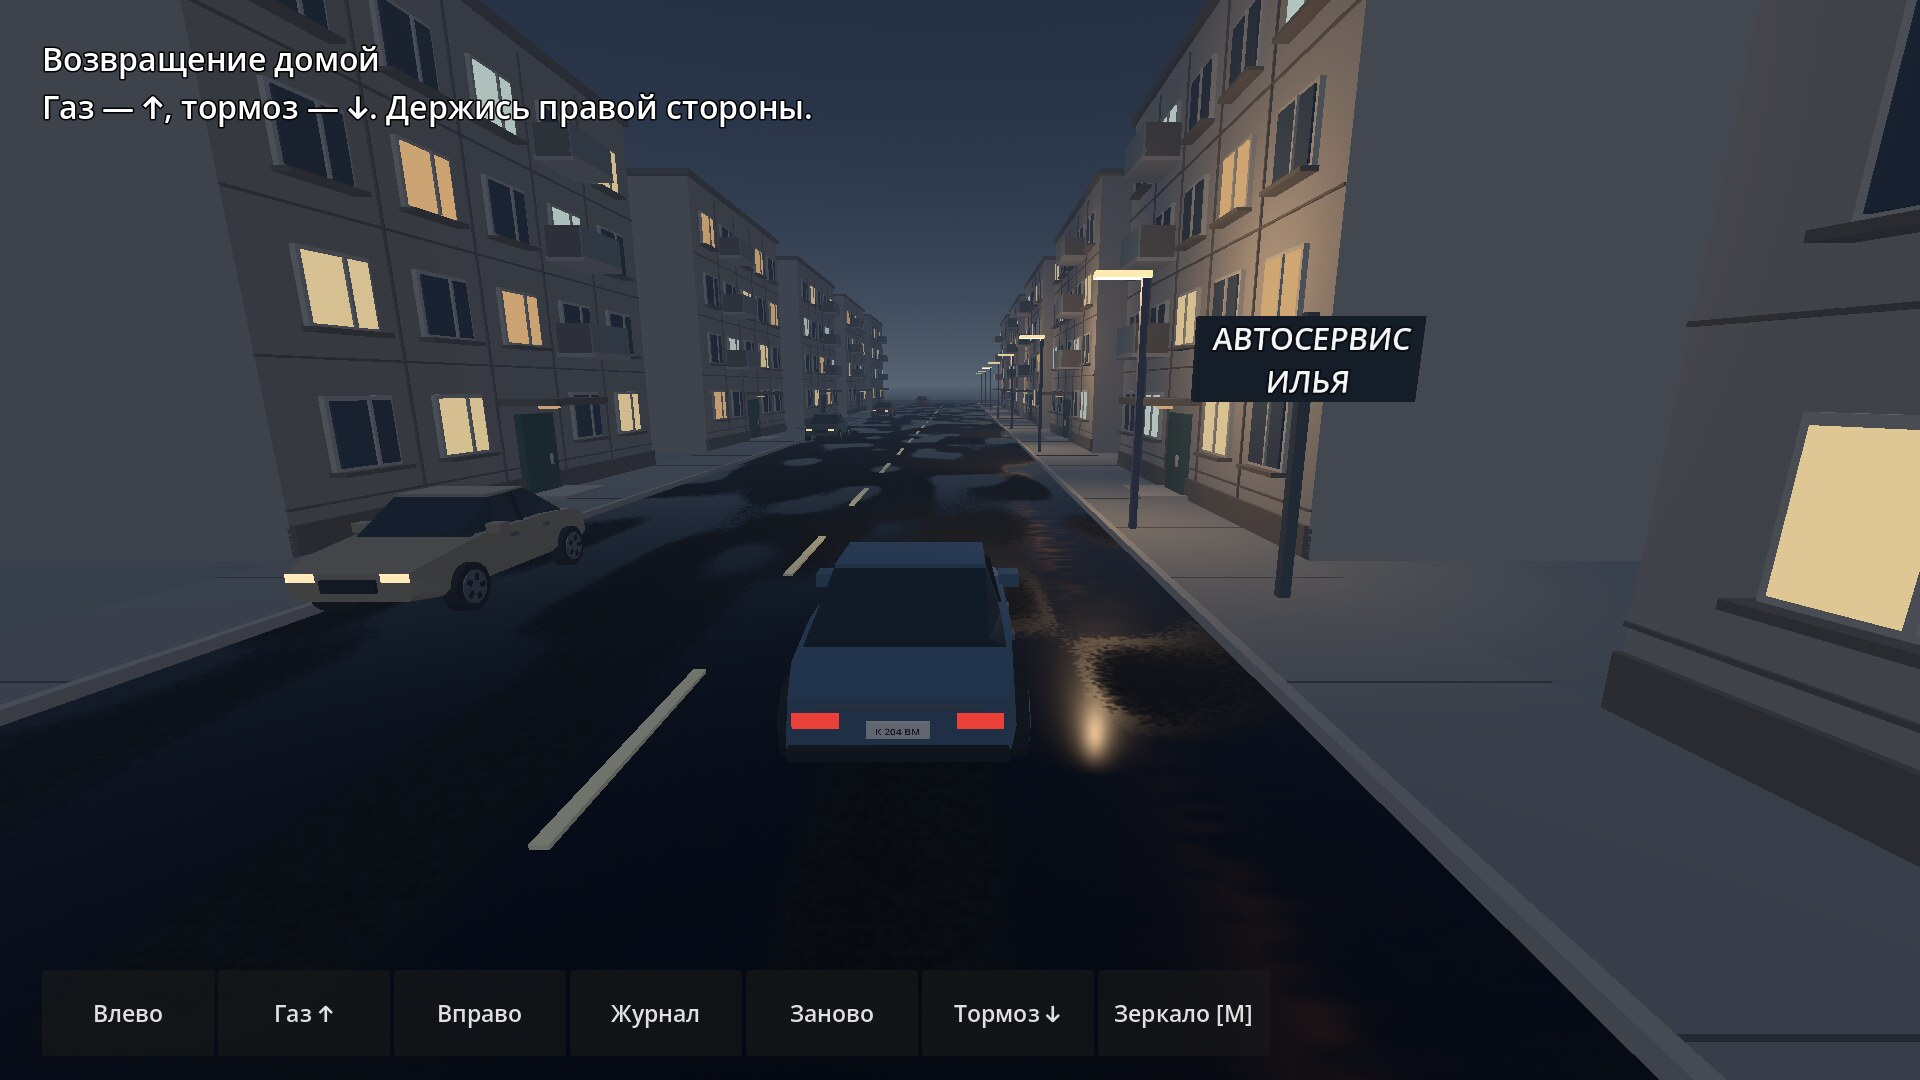
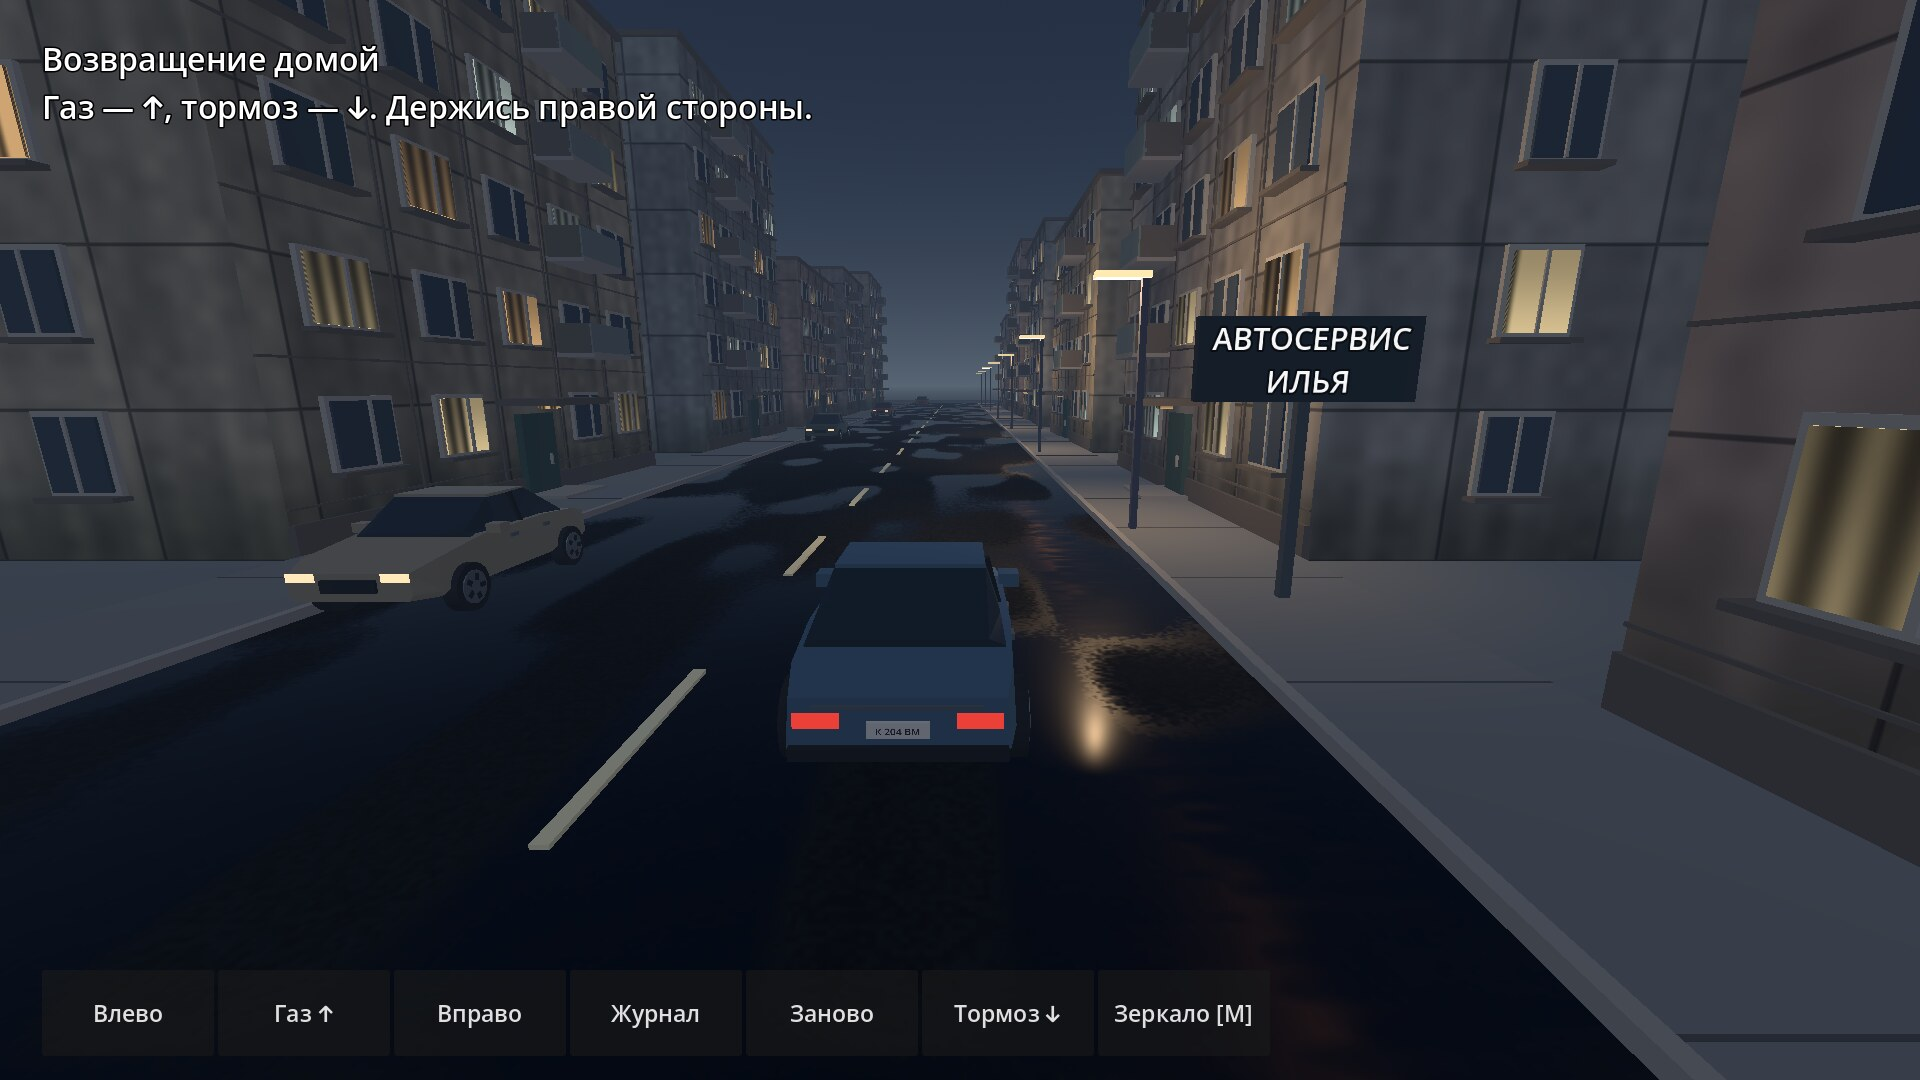
Vary street elevation and detail apartment end walls, concrete and curtains

diff --git a/Docs/07_PROGRESS_STATE.md b/Docs/07_PROGRESS_STATE.md
@@ -106,3 +106,7 @@
 ## Проверка изображения · ночная поездка
 
 В прологе добавлены собственный материал мокрого асфальта, свет фар и фонарей, тротуары и припаркованные машины. Встречный автомобиль использует модель седана. По кадру исправлены положение вывески и кнопки направления. Скрипт Tools/capture_night_road.gd снимает игровой viewport после воспроизводимого ввода. Получены кадры 1920×1080 и 3840×2160 в Godot 4.7.2 через OpenGL на Linux с программным рендерером Mesa. Скриншот 1080p приложен в Docs/Media/night-road.jpg. Драйвер сообщил об отсутствии управления VSync. Все 17 headless-сценариев прошли. Производительность Windows и Android требует замеров на устройствах. В кадре хорошо видны повторяемость застройки, простые силуэты кузовов и недостаток деталей на стенах. До расширения числа схематичных локаций приоритет — довести одну игровую улицу и героя до согласованного визуального уровня, проверяя материалы и композицию по кадрам из движка.
+
+## Ночная улица · бетонные панели и жилые окна
+
+На дороге стоят четырёх-, пяти- и шестиэтажные дома. С игровой камеры на торцах видны оконные рамы и отливы. Два оригинальных материала задают швы, неоднородность бетона, потемнение цоколя и шторы в освещённых квартирах. Проверены оба городских представления. На каждую сцену приходится 12 домов, 2520 экземпляров деталей и 24 узла MultiMesh. Число узлов прежнее, количество деталей выросло с 1248. Обновлён снимок Docs/Media/night-road.jpg с той же камеры и тем же вводом. Godot 4.7.2 на Linux прошёл 17 headless-сценариев. Кадры доступны в 1080p и 4K с программного OpenGL. Замеры на Windows и Android остаются открытыми.
